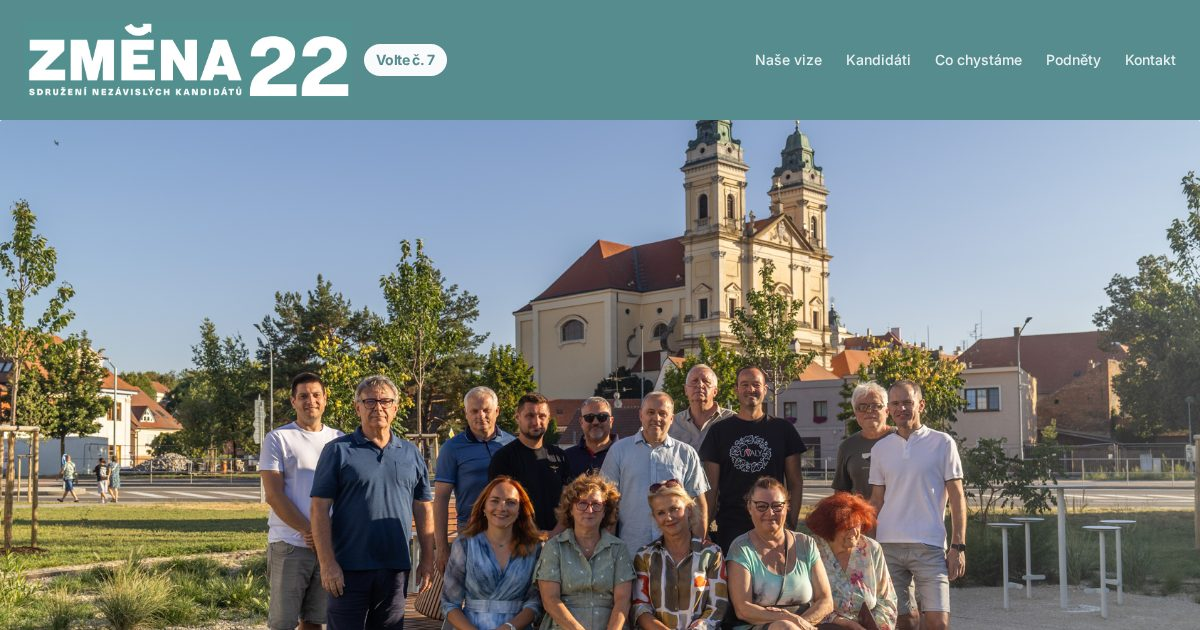
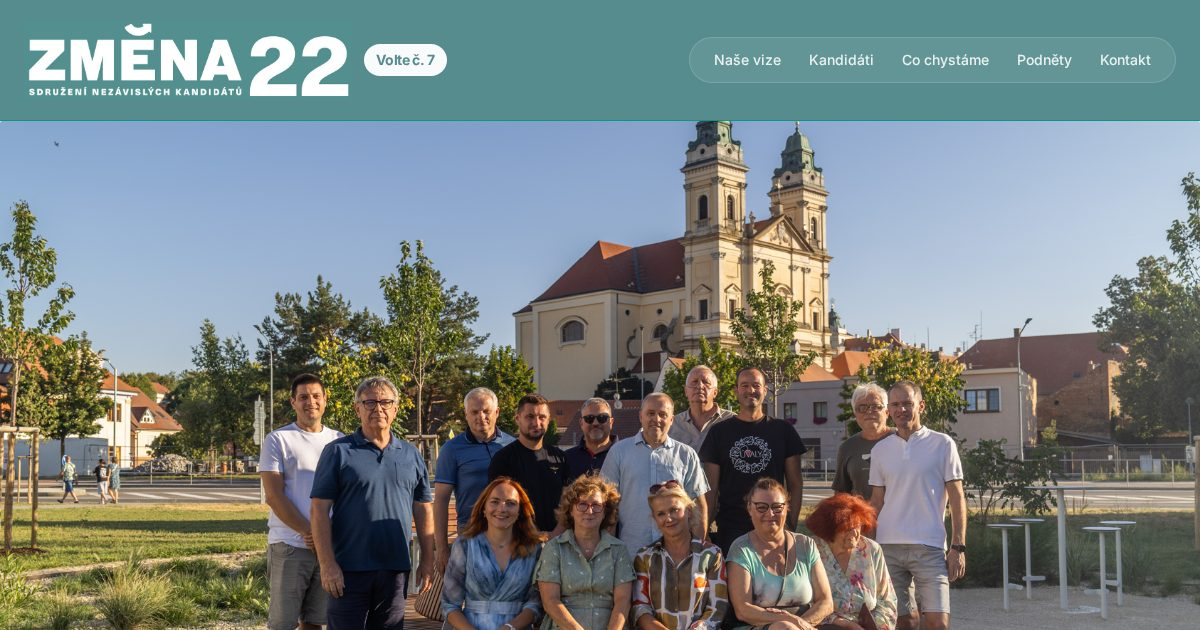
Deploy website: Změna22 Valtice

diff --git a/index.html b/index.html
@@ -23,15 +23,15 @@
   </head>
   <body>
     <div class="jean-site-shell" data-jean-motion="off" style="min-height:100vh;display:flex;flex-direction:column">
-    <header data-jean-burger="{&quot;panelCss&quot;:&quot;background:#FFFFFF;border-color:color-mix(in srgb, #0F172A 10%, transparent)&quot;,&quot;linkCss&quot;:&quot;color:#0F172A&quot;,&quot;links&quot;:[{&quot;href&quot;:&quot;#section_features_mtwowsd0_mtvniy&quot;,&quot;label&quot;:&quot;Naše vize&quot;},{&quot;href&quot;:&quot;#section_kandidati&quot;,&quot;label&quot;:&quot;Kandidáti&quot;},{&quot;href&quot;:&quot;#section_co_chystame&quot;,&quot;label&quot;:&quot;Co chystáme&quot;},{&quot;href&quot;:&quot;#section_podnety&quot;,&quot;label&quot;:&quot;Podněty&quot;},{&quot;href&quot;:&quot;#section_kontakt&quot;,&quot;label&quot;:&quot;Kontakt&quot;}],&quot;cta&quot;:null,&quot;mobileOnly&quot;:true}" class="sticky top-0 z-50" style="background-color:#568c8e;border-bottom:none;color:rgba(255,255,255,0.87);--color-text:rgba(255,255,255,0.87);--color-heading:#ffffff;--color-muted:rgba(255,255,255,0.64);--color-surface:rgba(255,255,255,0.08);--color-surface-tint:rgba(255,255,255,0.1);--color-surface-strong:rgba(255,255,255,0.14);--color-card:rgba(255,255,255,0.08);--color-card-strong:rgba(255,255,255,0.12);--color-line:rgba(255,255,255,0.14);--color-line-strong:rgba(255,255,255,0.24);--color-nav:rgba(255,255,255,0.08);--color-nav-border:rgba(255,255,255,0.16);--color-image-placeholder:rgba(255,255,255,0.08)" data-jean-header-size="large" id="section_header" data-section-id="section_header" data-section-type="header">
+    <header data-jean-burger="{&quot;panelCss&quot;:&quot;background:#FFFFFF;border-color:color-mix(in srgb, #0F172A 10%, transparent)&quot;,&quot;linkCss&quot;:&quot;color:#0F172A&quot;,&quot;links&quot;:[{&quot;href&quot;:&quot;#section_features_mtwowsd0_mtvniy&quot;,&quot;label&quot;:&quot;Naše vize&quot;},{&quot;href&quot;:&quot;#section_kandidati&quot;,&quot;label&quot;:&quot;Kandidáti&quot;},{&quot;href&quot;:&quot;#section_co_chystame&quot;,&quot;label&quot;:&quot;Co chystáme&quot;},{&quot;href&quot;:&quot;#section_podnety&quot;,&quot;label&quot;:&quot;Podněty&quot;},{&quot;href&quot;:&quot;#section_kontakt&quot;,&quot;label&quot;:&quot;Kontakt&quot;}],&quot;cta&quot;:null,&quot;mobileOnly&quot;:true}" class="sticky top-0 z-50" style="background-color:#568c8e;backdrop-filter:blur(0px);-webkit-backdrop-filter:blur(0px);border-bottom:1px solid #0d9488;color:rgba(255,255,255,0.87);--color-text:rgba(255,255,255,0.87);--color-heading:#ffffff;--color-muted:rgba(255,255,255,0.64);--color-surface:rgba(255,255,255,0.08);--color-surface-tint:rgba(255,255,255,0.1);--color-surface-strong:rgba(255,255,255,0.14);--color-card:rgba(255,255,255,0.08);--color-card-strong:rgba(255,255,255,0.12);--color-line:rgba(255,255,255,0.14);--color-line-strong:rgba(255,255,255,0.24);--color-nav:rgba(255,255,255,0.08);--color-nav-border:rgba(255,255,255,0.16);--color-image-placeholder:rgba(255,255,255,0.08)" data-jean-header-size="large" id="section_header" data-section-id="section_header" data-section-type="header">
       <div class="max-w-7xl mx-auto px-6 py-3 flex items-center justify-between gap-8">
         <span class="inline-flex items-center gap-3 flex-shrink-0"><span class="inline-flex items-center gap-2.5 flex-shrink-0"><img src="/images/logo-1.png" alt="ZMĚNA 22" class="h-9 jean-header-logo w-auto object-contain flex-shrink-0"></span><span class="inline-flex items-center whitespace-nowrap flex-shrink-0 px-3 py-1.5 text-sm font-bold tracking-tight rounded-full" data-block-id="b_a600ef4f2f104385ab4fab18" data-block-type="badge" style="background-color:#F8FAFC;color:#568c8e">Volte č. 7</span></span>
-        <nav class="hidden md:flex gap-6" data-block-id="block_main_nav" data-block-type="nav_links">
-          <a href="#section_features_mtwowsd0_mtvniy" class="text-sm font-medium hover:opacity-70 transition-opacity" style="color:var(--color-text)">Naše vize</a>
-          <a href="#section_kandidati" class="text-sm font-medium hover:opacity-70 transition-opacity" style="color:var(--color-text)">Kandidáti</a>
-          <a href="#section_co_chystame" class="text-sm font-medium hover:opacity-70 transition-opacity" style="color:var(--color-text)">Co chystáme</a>
-          <a href="#section_podnety" class="text-sm font-medium hover:opacity-70 transition-opacity" style="color:var(--color-text)">Podněty</a>
-          <a href="#section_kontakt" class="text-sm font-medium hover:opacity-70 transition-opacity" style="color:var(--color-text)">Kontakt</a>
+        <nav class="hidden md:flex items-center gap-1 px-3 py-1.5 rounded-full" style="background-color:var(--color-nav);border:1px solid var(--color-nav-border)" data-block-id="block_main_nav" data-block-type="nav_links">
+          <a href="#section_features_mtwowsd0_mtvniy" class="text-sm font-medium px-3 py-1.5 rounded-full hover:opacity-70 transition-opacity" style="color:var(--color-text)">Naše vize</a>
+          <a href="#section_kandidati" class="text-sm font-medium px-3 py-1.5 rounded-full hover:opacity-70 transition-opacity" style="color:var(--color-text)">Kandidáti</a>
+          <a href="#section_co_chystame" class="text-sm font-medium px-3 py-1.5 rounded-full hover:opacity-70 transition-opacity" style="color:var(--color-text)">Co chystáme</a>
+          <a href="#section_podnety" class="text-sm font-medium px-3 py-1.5 rounded-full hover:opacity-70 transition-opacity" style="color:var(--color-text)">Podněty</a>
+          <a href="#section_kontakt" class="text-sm font-medium px-3 py-1.5 rounded-full hover:opacity-70 transition-opacity" style="color:var(--color-text)">Kontakt</a>
         </nav>
         
         <button type="button" aria-expanded="false" aria-controls="jean-header-menu" aria-label="Menu" class="md:hidden inline-flex flex-col justify-center items-center gap-1.5 w-11 h-11 -mr-2 flex-shrink-0 cursor-pointer bg-transparent border-0">
@@ -48,7 +48,7 @@
           
           <div class="relative">
           
-          <h1 class="text-5xl lg:text-8xl tracking-tight" data-block-id="block_hero_heading" data-block-type="text.heading" style="color:#e5ffff;font-family:var(--font-heading);font-weight:800;font-size:clamp(3rem, 2rem + 3.4vw, 4.5rem)"></h1>
+          <h1 class="text-5xl lg:text-7xl tracking-tight" data-block-id="block_hero_heading" data-block-type="text.heading" style="color:#e5ffff;font-family:var(--font-heading);font-weight:800;font-size:clamp(3rem, 2rem + 3.4vw, 4.5rem)"></h1>
           <p class="mt-6 text-lg max-w-2xl mx-auto" data-block-id="block_hero_text" data-block-type="text.paragraph" style="color:rgba(255,255,255,0.86);font-family:var(--font-body);font-weight:400"></p>
           
           
@@ -76,7 +76,7 @@
           <h3 class="text-2xl lg:text-3xl font-semibold mb-3" style="color:var(--color-text);font-family:var(--font-heading)">Územní plán a jeho změna č. 1 jako hlavní prostředek rozvoje města</h3>
           
           <div class="jean-stagger-grid grid grid-cols-1 md:grid-cols-2 lg:grid-cols-2 gap-6 items-start">
-          <div class="group jean-card p-8 rounded-2xl h-full flex flex-col jean-motion-layer jean-stagger-card jean-parallax-up" data-jean-reveal="true" data-block-id="b_d06361ed21834a78be57b9b2" data-block-type="card" style="transition-delay:0s">
+          <div class="group jean-card jean-float p-8 rounded-2xl h-full flex flex-col jean-motion-layer jean-stagger-card jean-parallax-up" data-jean-reveal="true" data-block-id="b_d06361ed21834a78be57b9b2" data-block-type="card" style="transition-delay:0s">
             
             <div class="mb-4" style="color:var(--color-primary)"><svg xmlns="http://www.w3.org/2000/svg" class="lucide lucide-house" width="32" height="32" viewBox="0 0 24 24" fill="none" stroke="currentColor" stroke-width="2" stroke-linecap="round" stroke-linejoin="round" aria-hidden="true"><path d="M15 21v-8a1 1 0 0 0-1-1h-4a1 1 0 0 0-1 1v8" /> <path d="M3 10a2 2 0 0 1 .709-1.528l7-5.999a2 2 0 0 1 2.582 0l7 5.999A2 2 0 0 1 21 10v9a2 2 0 0 1-2 2H5a2 2 0 0 1-2-2z" /></svg></div>
             <h3 class="text-xl font-semibold mb-2" style="color:var(--color-text)">DOSTUPNÉ BYDLENÍ PRO OBČANY VALTIC</h3>
@@ -85,7 +85,7 @@ pro stavbu rodinných domů
 ve Valticích i Úvalech. Podpora
 bytové výstavby.</p>
           </div>
-          <div class="group jean-card p-8 rounded-2xl h-full flex flex-col jean-motion-layer jean-stagger-card jean-parallax-down" data-jean-reveal="true" data-block-id="b_c9de176bcc4f4a47b234546c" data-block-type="card" style="transition-delay:0.08s">
+          <div class="group jean-card jean-float p-8 rounded-2xl h-full flex flex-col jean-motion-layer jean-stagger-card jean-parallax-down" data-jean-reveal="true" data-block-id="b_c9de176bcc4f4a47b234546c" data-block-type="card" style="transition-delay:0.08s">
             
             <div class="mb-4" style="color:var(--color-primary)"><svg xmlns="http://www.w3.org/2000/svg" class="lucide lucide-car" width="32" height="32" viewBox="0 0 24 24" fill="none" stroke="currentColor" stroke-width="2" stroke-linecap="round" stroke-linejoin="round" aria-hidden="true"><path d="M19 17h2c.6 0 1-.4 1-1v-3c0-.9-.7-1.7-1.5-1.9C18.7 10.6 16 10 16 10s-1.3-1.4-2.2-2.3c-.5-.4-1.1-.7-1.8-.7H5c-.6 0-1.1.4-1.4.9l-1.4 2.9A3.7 3.7 0 0 0 2 12v4c0 .6.4 1 1 1h2" /> <circle cx="7" cy="17" r="2" /> <path d="M9 17h6" /> <circle cx="17" cy="17" r="2" /></svg></div>
             <h3 class="text-xl font-semibold mb-2" style="color:var(--color-text)">DOKONČENÍ EFEKTIVNÍHO PARKOVACÍHO SYSTÉMU</h3>
@@ -99,13 +99,13 @@ v centru města.</p>
           <h3 class="text-2xl lg:text-3xl font-semibold mb-3" style="color:var(--color-text);font-family:var(--font-heading)">Smysluplná péče o občany, město i krajinu</h3>
           
           <div class="jean-stagger-grid grid grid-cols-1 md:grid-cols-2 lg:grid-cols-2 gap-6 items-start">
-          <div class="group jean-card p-8 rounded-2xl h-full flex flex-col jean-motion-layer jean-stagger-card jean-parallax-up" data-jean-reveal="true" data-block-id="card_mesto_pro_lidi" data-block-type="card" style="transition-delay:0.16s">
+          <div class="group jean-card jean-float p-8 rounded-2xl h-full flex flex-col jean-motion-layer jean-stagger-card jean-parallax-up" data-jean-reveal="true" data-block-id="card_mesto_pro_lidi" data-block-type="card" style="transition-delay:0.16s">
             
             <div class="mb-4" style="color:var(--color-primary)"><svg xmlns="http://www.w3.org/2000/svg" class="lucide lucide-users" width="32" height="32" viewBox="0 0 24 24" fill="none" stroke="currentColor" stroke-width="2" stroke-linecap="round" stroke-linejoin="round" aria-hidden="true"><path d="M16 21v-2a4 4 0 0 0-4-4H6a4 4 0 0 0-4 4v2" /> <path d="M16 3.128a4 4 0 0 1 0 7.744" /> <path d="M22 21v-2a4 4 0 0 0-3-3.87" /> <circle cx="9" cy="7" r="4" /></svg></div>
             <h3 class="text-xl font-semibold mb-2" style="color:var(--color-text)">MĚSTO PRO LIDI A ŽIVOT</h3>
             <p style="color:var(--color-muted)">Kultivace a soustavná péče o veřejná prostranství, dětská hřiště, sportoviště, komunikace a chodníky.</p>
           </div>
-          <div class="group jean-card p-8 rounded-2xl h-full flex flex-col jean-motion-layer jean-stagger-card jean-parallax-down" data-jean-reveal="true" data-block-id="card_adaptace_klima" data-block-type="card" style="transition-delay:0.24s">
+          <div class="group jean-card jean-float p-8 rounded-2xl h-full flex flex-col jean-motion-layer jean-stagger-card jean-parallax-down" data-jean-reveal="true" data-block-id="card_adaptace_klima" data-block-type="card" style="transition-delay:0.24s">
             
             <div class="mb-4" style="color:var(--color-primary)"><svg xmlns="http://www.w3.org/2000/svg" class="lucide lucide-leaf" width="32" height="32" viewBox="0 0 24 24" fill="none" stroke="currentColor" stroke-width="2" stroke-linecap="round" stroke-linejoin="round" aria-hidden="true"><path d="M11 20A7 7 0 0 1 9.8 6.1C15.5 5 17 4.48 19 2c1 2 2 4.18 2 8 0 5.5-4.78 10-10 10Z" /> <path d="M2 21c0-3 1.85-5.36 5.08-6C9.5 14.52 12 13 13 12" /></svg></div>
             <h3 class="text-xl font-semibold mb-2" style="color:var(--color-text)">ADAPTACE NA ZMĚNU KLIMATU</h3>
@@ -117,13 +117,13 @@ v centru města.</p>
           <h3 class="text-2xl lg:text-3xl font-semibold mb-3" style="color:var(--color-text);font-family:var(--font-heading)">Rovnocenné zohlednění potřeb místní komunity, turistů i podnikatelů</h3>
           
           <div class="jean-stagger-grid grid grid-cols-1 md:grid-cols-2 lg:grid-cols-2 gap-6 items-start">
-          <div class="group jean-card p-8 rounded-2xl h-full flex flex-col jean-motion-layer jean-stagger-card jean-parallax-up" data-jean-reveal="true" data-block-id="card_podpora_spolku" data-block-type="card" style="transition-delay:0.32s">
+          <div class="group jean-card jean-float p-8 rounded-2xl h-full flex flex-col jean-motion-layer jean-stagger-card jean-parallax-up" data-jean-reveal="true" data-block-id="card_podpora_spolku" data-block-type="card" style="transition-delay:0.32s">
             
             <div class="mb-4" style="color:var(--color-primary)"><svg xmlns="http://www.w3.org/2000/svg" class="lucide lucide-handshake" width="32" height="32" viewBox="0 0 24 24" fill="none" stroke="currentColor" stroke-width="2" stroke-linecap="round" stroke-linejoin="round" aria-hidden="true"><path d="m11 17 2 2a1 1 0 1 0 3-3" /> <path d="m14 14 2.5 2.5a1 1 0 1 0 3-3l-3.88-3.88a3 3 0 0 0-4.24 0l-.88.88a1 1 0 1 1-3-3l2.81-2.81a5.79 5.79 0 0 1 7.06-.87l.47.28a2 2 0 0 0 1.42.25L21 4" /> <path d="m21 3 1 11h-2" /> <path d="M3 3 2 14l6.5 6.5a1 1 0 1 0 3-3" /> <path d="M3 4h8" /></svg></div>
             <h3 class="text-xl font-semibold mb-2" style="color:var(--color-text)">PODPORA SPOLKŮ A KOMUNITNÍHO ŽIVOTA</h3>
             <p style="color:var(--color-muted)">Podpora tvořivé spolupráce a soužití obyvatel města všech generačních úrovní.</p>
           </div>
-          <div class="group jean-card p-8 rounded-2xl h-full flex flex-col jean-motion-layer jean-stagger-card jean-parallax-down" data-jean-reveal="true" data-block-id="card_turistika_pravidly" data-block-type="card" style="transition-delay:0.4s">
+          <div class="group jean-card jean-float p-8 rounded-2xl h-full flex flex-col jean-motion-layer jean-stagger-card jean-parallax-down" data-jean-reveal="true" data-block-id="card_turistika_pravidly" data-block-type="card" style="transition-delay:0.4s">
             
             <div class="mb-4" style="color:var(--color-primary)"><svg xmlns="http://www.w3.org/2000/svg" class="lucide lucide-map-pin" width="32" height="32" viewBox="0 0 24 24" fill="none" stroke="currentColor" stroke-width="2" stroke-linecap="round" stroke-linejoin="round" aria-hidden="true"><path d="M20 10c0 4.993-5.539 10.193-7.399 11.799a1 1 0 0 1-1.202 0C9.539 20.193 4 14.993 4 10a8 8 0 0 1 16 0" /> <circle cx="12" cy="10" r="3" /></svg></div>
             <h3 class="text-xl font-semibold mb-2" style="color:var(--color-text)">TURISTIKA S PRAVIDLY</h3>
@@ -135,13 +135,13 @@ v centru města.</p>
           <h3 class="text-2xl lg:text-3xl font-semibold mb-3" style="color:var(--color-text);font-family:var(--font-heading)">Aktivní zapojení občanů do rozvoje města</h3>
           
           <div class="jean-stagger-grid grid grid-cols-1 md:grid-cols-2 lg:grid-cols-2 gap-6 items-start">
-          <div class="group jean-card p-8 rounded-2xl h-full flex flex-col jean-motion-layer jean-stagger-card jean-parallax-up" data-jean-reveal="true" data-block-id="card_hospodareni" data-block-type="card" style="transition-delay:0.48s">
+          <div class="group jean-card jean-float p-8 rounded-2xl h-full flex flex-col jean-motion-layer jean-stagger-card jean-parallax-up" data-jean-reveal="true" data-block-id="card_hospodareni" data-block-type="card" style="transition-delay:0.48s">
             
             <div class="mb-4" style="color:var(--color-primary)"><svg xmlns="http://www.w3.org/2000/svg" class="lucide lucide-dollar-sign" width="32" height="32" viewBox="0 0 24 24" fill="none" stroke="currentColor" stroke-width="2" stroke-linecap="round" stroke-linejoin="round" aria-hidden="true"><line x1="12" x2="12" y1="2" y2="22" /> <path d="M17 5H9.5a3.5 3.5 0 0 0 0 7h5a3.5 3.5 0 0 1 0 7H6" /></svg></div>
             <h3 class="text-xl font-semibold mb-2" style="color:var(--color-text)">HOSPODAŘENÍ BEZ OTAZNÍKŮ</h3>
             <p style="color:var(--color-muted)">Transparentní nakládání s veřejnými prostředky a podpora participativního plánování.</p>
           </div>
-          <div class="group jean-card p-8 rounded-2xl h-full flex flex-col jean-motion-layer jean-stagger-card jean-parallax-down" data-jean-reveal="true" data-block-id="card_vice_hlasu" data-block-type="card" style="transition-delay:0.48s">
+          <div class="group jean-card jean-float p-8 rounded-2xl h-full flex flex-col jean-motion-layer jean-stagger-card jean-parallax-down" data-jean-reveal="true" data-block-id="card_vice_hlasu" data-block-type="card" style="transition-delay:0.48s">
             
             <div class="mb-4" style="color:var(--color-primary)"><svg xmlns="http://www.w3.org/2000/svg" class="lucide lucide-mail" width="32" height="32" viewBox="0 0 24 24" fill="none" stroke="currentColor" stroke-width="2" stroke-linecap="round" stroke-linejoin="round" aria-hidden="true"><path d="m22 7-8.991 5.727a2 2 0 0 1-2.009 0L2 7" /> <rect x="2" y="4" width="20" height="16" rx="2" /></svg></div>
             <h3 class="text-xl font-semibold mb-2" style="color:var(--color-text)">VÍCE HLASU PRO ÚVALY</h3>

diff --git a/assets/utilities.css b/assets/utilities.css
@@ -28,8 +28,8 @@
     --text-4xl--line-height: calc(2.5 / 2.25);
     --text-5xl: 3rem;
     --text-5xl--line-height: 1;
-    --text-8xl: 6rem;
-    --text-8xl--line-height: 1;
+    --text-7xl: 4.5rem;
+    --text-7xl--line-height: 1;
     --font-weight-medium: 500;
     --font-weight-semibold: 600;
     --font-weight-bold: 700;
@@ -523,9 +523,9 @@
       font-size: var(--text-4xl);
       line-height: var(--tw-leading, var(--text-4xl--line-height));
     }
-    .lg\:text-8xl {
-      font-size: var(--text-8xl);
-      line-height: var(--tw-leading, var(--text-8xl--line-height));
+    .lg\:text-7xl {
+      font-size: var(--text-7xl);
+      line-height: var(--tw-leading, var(--text-7xl--line-height));
     }
   }
 }
